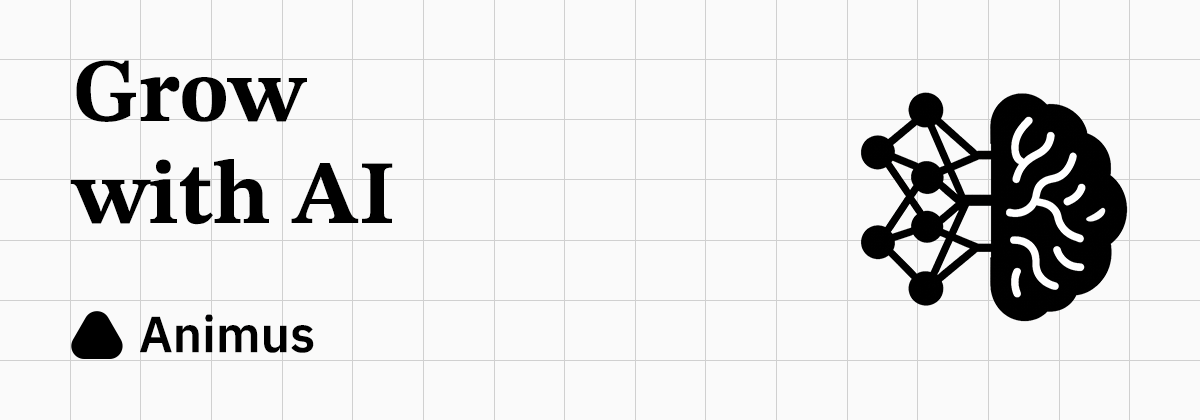
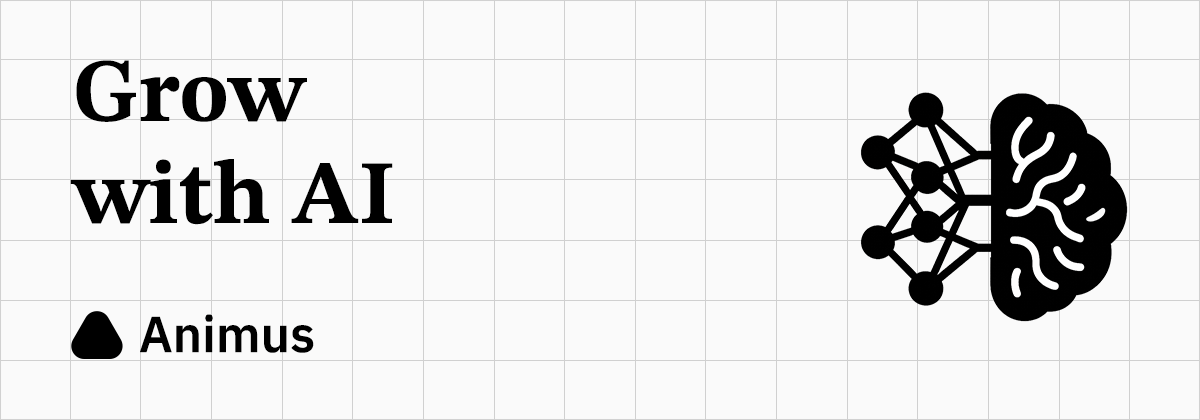
fix: landing slogan font-size too big

Changed region(s): [[0.0, 0.9905, 1.0, 1.0], [0.9867, 0.0, 1.0, 0.031], [0.0, 0.0, 0.0308, 0.031]]

diff --git a/packages/website/appwidgets/index/Landing/index.module.css b/packages/website/appwidgets/index/Landing/index.module.css
@@ -10,8 +10,9 @@
 				line-height: 1.2;
 				margin: 0;
 				text-align: center;
+				letter-spacing: 2px;
 				font-family: var(--font_serif);
-				font-size: 84px;
+				font-size: 72px;
 				font-weight: 600;
 			}
 		}
@@ -34,7 +35,6 @@
 
 				.slogan {
 					line-height: 1.32;
-					letter-spacing: 2px;
 					font-size: 60px;
 				}
 			}
